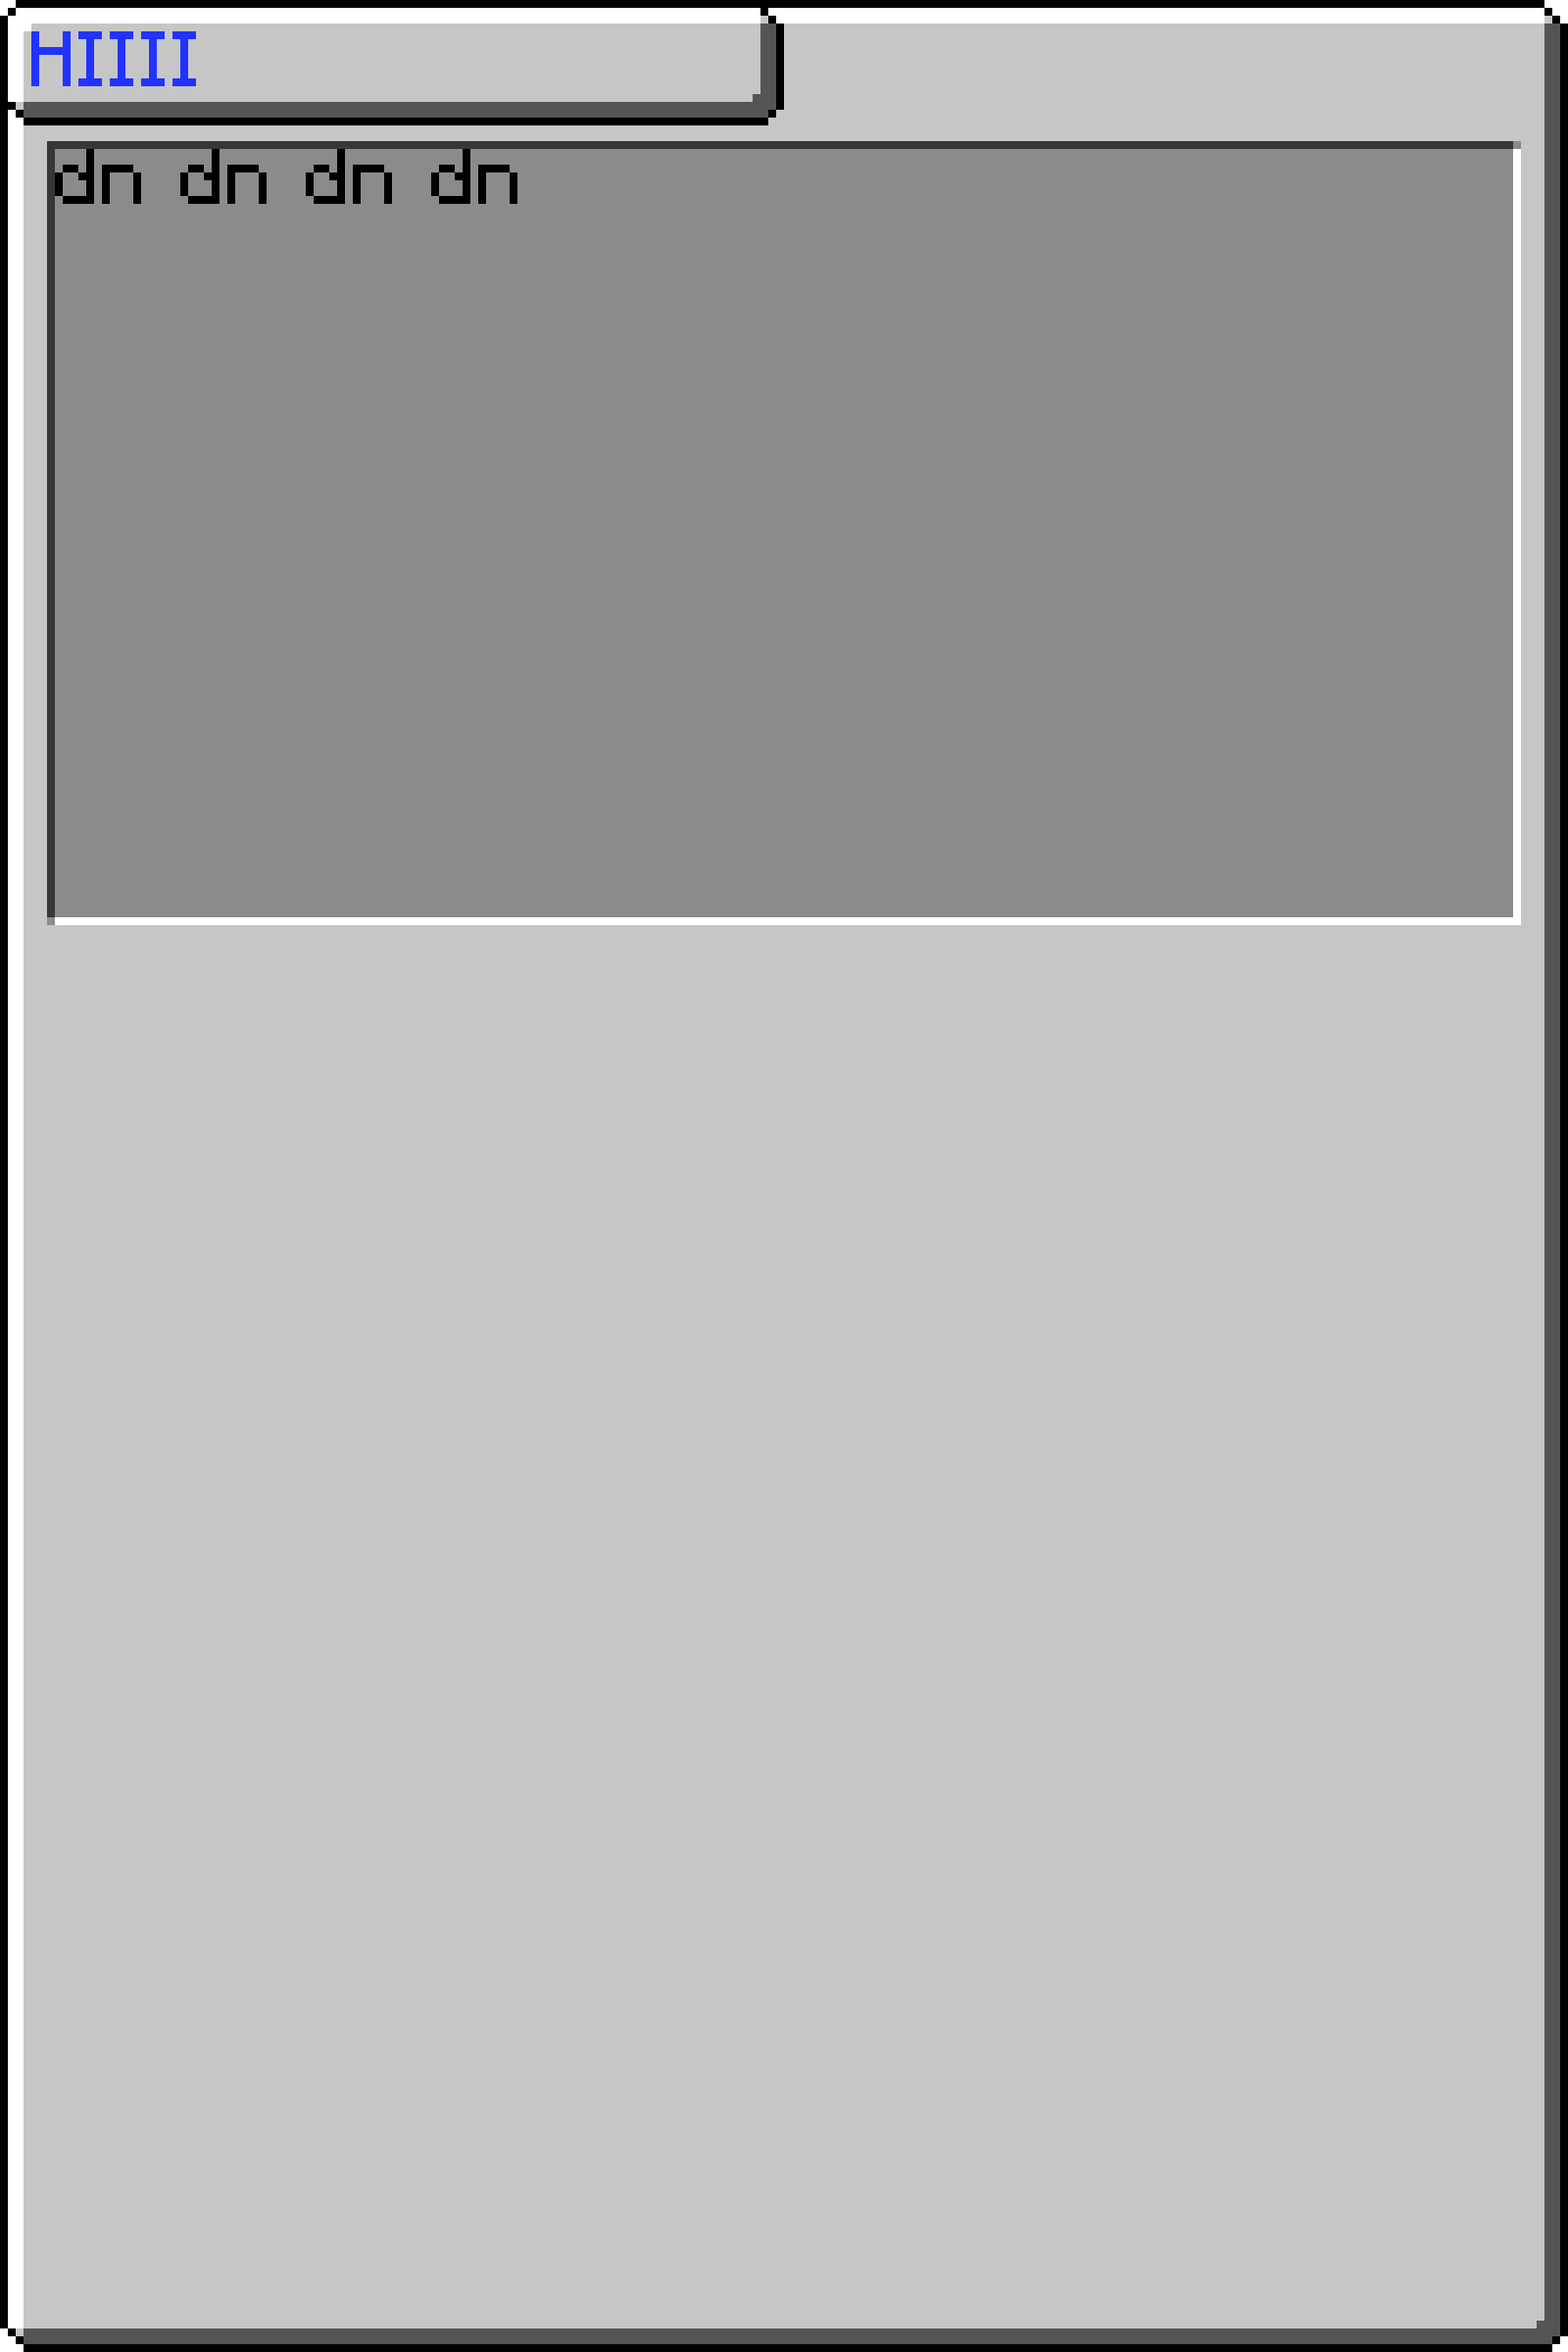
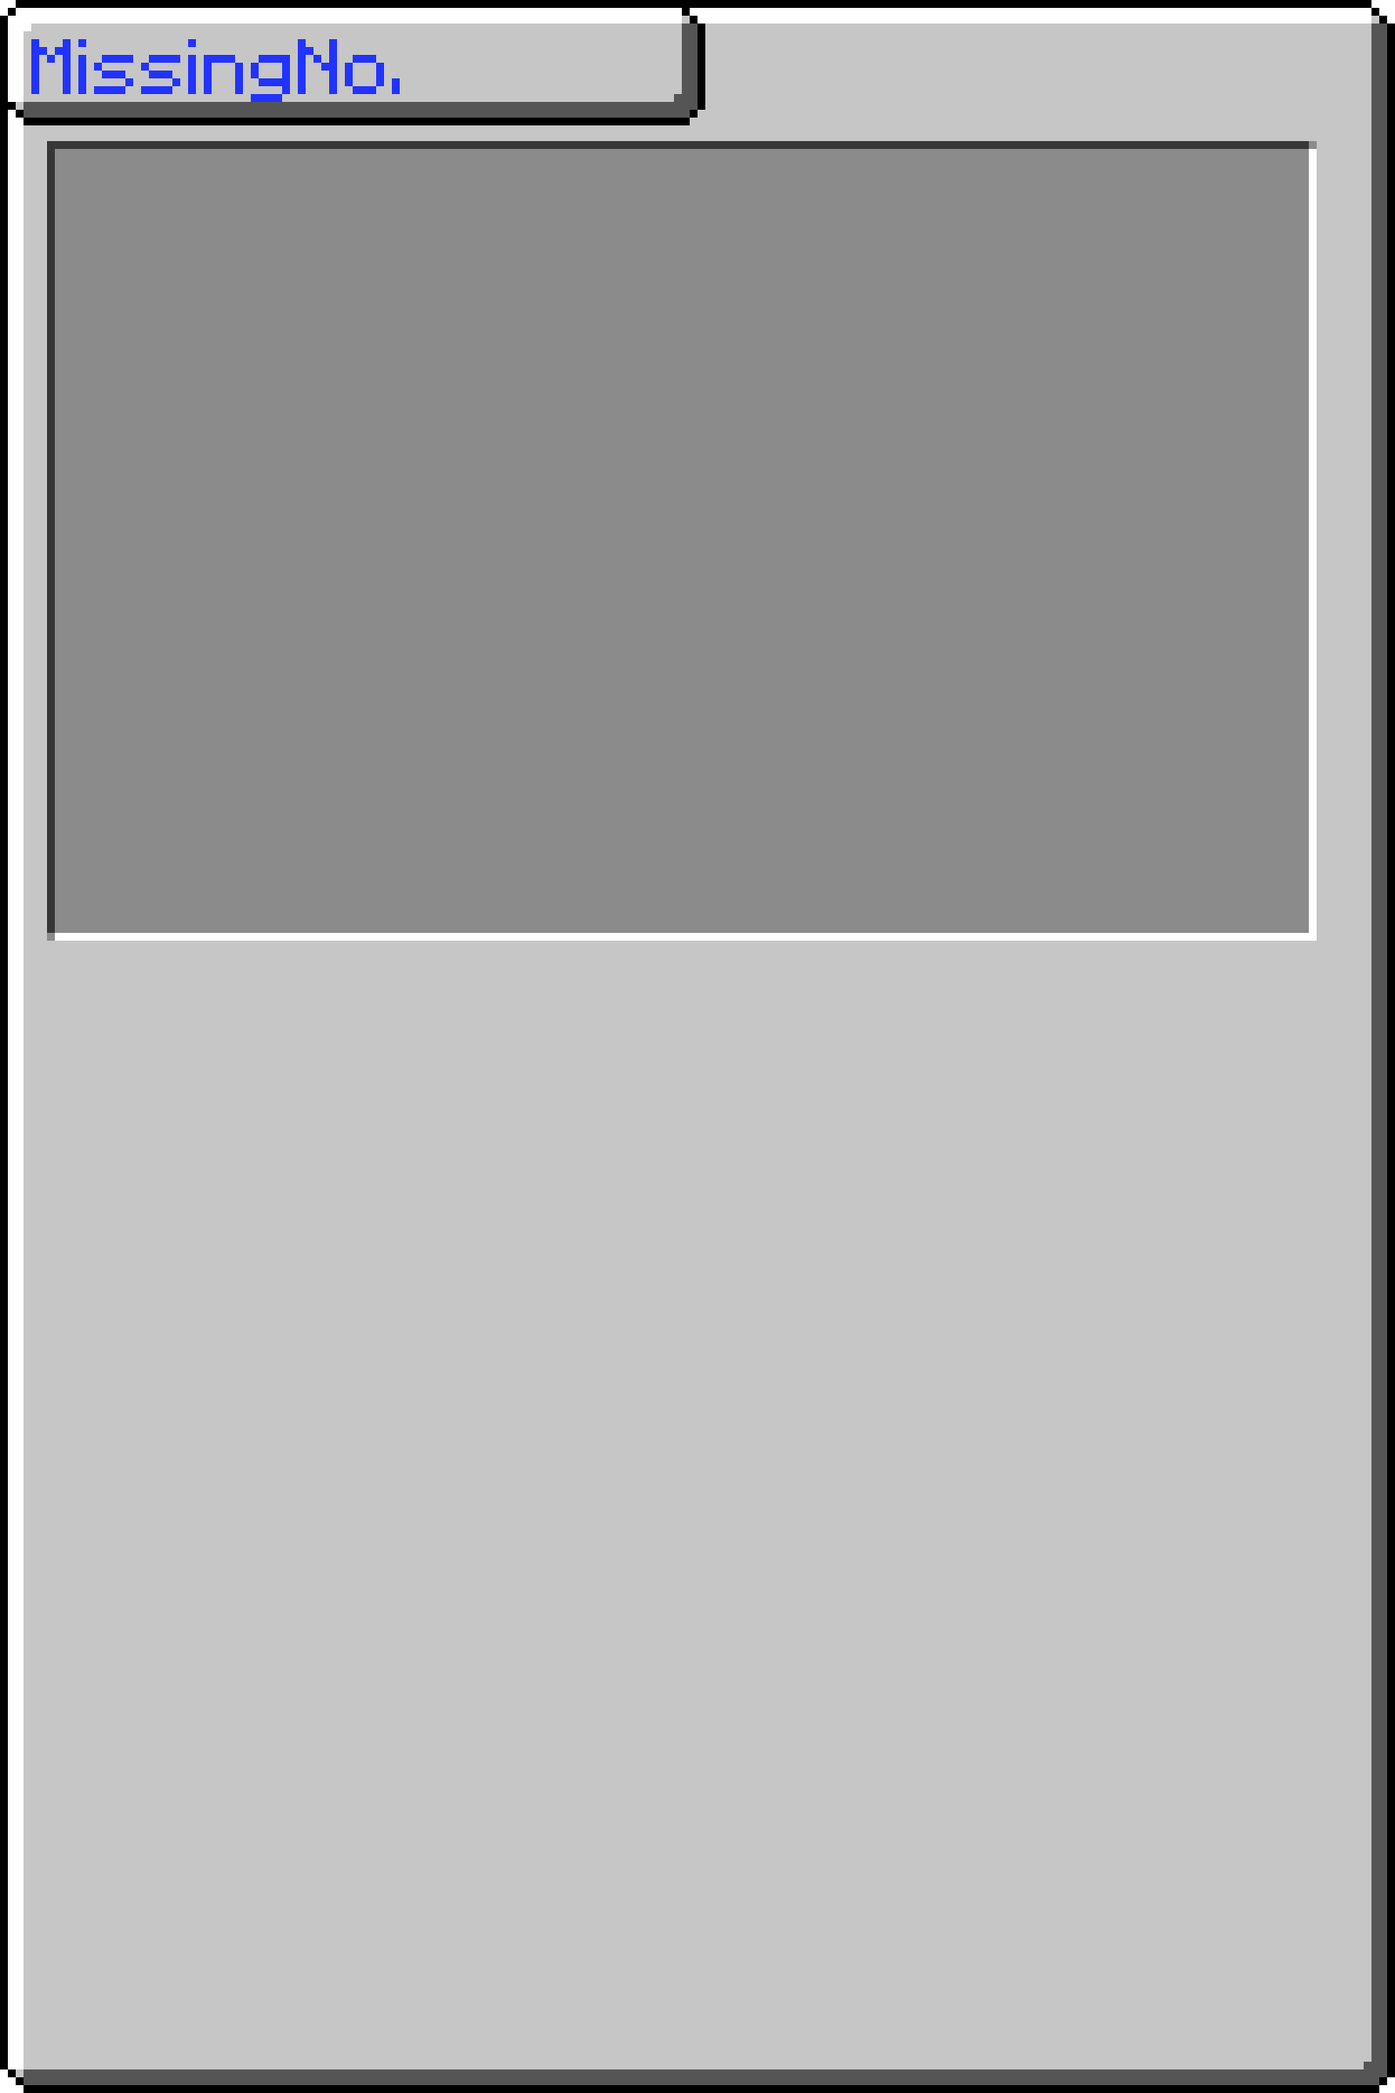
set_field madness

Changed region(s): [[0.0, 0.0, 0.9888, 0.4635], [0.0, 0.9888, 1.0, 1.0], [0.9579, 0.0, 1.0, 0.0309]]

diff --git a/card.py b/card.py
@@ -1,13 +1,12 @@
 import json
-from typing import NewType
 from PIL import Image
 import gui_builder, text
 from pathlib import Path
 DIR = Path(__file__).resolve().parent
 
-Text = NewType("Text", str)
+Text = str
 
-class Card():
+class BaseCard():
     def __init__(self, card_info: dict):
         self.name = card_info["name"]
         self.image = Image.new("RGBA", tuple(card_info["dimensions"]))
@@ -18,33 +17,44 @@ class Card():
         base, _ = gui_builder.create_base_gui(*card_info["dimensions"], card_info["base"])
         self.image.paste(im = base, box = base)
         self.fields = {}
+        self.field_sizes = {}
 
         for field in card_info["fields"]:
-            base, offset = gui_builder.create_base_gui(*field["dimensions"], field["frame"])
-            self.image.paste(base, tuple(field["position"]), base)
+            offset = (0, 0)
+            if "frame" in field:
+                base, offset = gui_builder.create_base_gui(*field["dimensions"], field["frame"])
+
+                self.image.paste(base, tuple(field["position"]), base)
             field["position"] = [x + y for x, y in zip(field["position"], offset)]
             self.fields[field["name"]] = field["position"]
+            self.field_sizes[field["name"]] = field["dimensions"]
 
-    def set_field(self, name: str, field: Image.Image | Text, color: tuple[int, int, int] = None) -> bool:
+    def set_field(self, name: str, field: Image.Image | Text, padding: tuple[int, int] = None, color: tuple[int, int, int] = None) -> bool:
         """
         Sets a card field to be an image or text.
-        The color field will only affect text color.
+        The color and padding fields will only affect text.
         Returns True on success, and False if the field is not found.
         """
-        
+
         if name not in self.fields: 
             return False
         if isinstance(field, str):
-            field = text.minecraft(field, color)
+            field = text.minecraft(field, padding, color)
         self.paste(field, tuple(self.fields[name]), field)
         return True
+    
+class Card(BaseCard):
+    def __init__(self, card_info):
+        super().__init__(card_info)
 
 with open(f"{DIR}/test_card.json", "r") as file:
     test_card_info = json.load(file)
 
-im = Card(test_card_info)
-im.set_field("title", "HIIII", (34, 51, 255))
-im.set_field("image", "dn dn dn dn")
-im.image = im.image.resize((8*im.image.width, 8*im.image.height), resample= Image.BOX)
+im = BaseCard(test_card_info)
+im.set_field("title", "MissingNo.", (0, 1), (34, 51, 255))
+# with Image.open(f"{DIR}/gui/missingno.png") as img:
+#     img = img.resize(tuple(im.field_sizes["image"]), resample = Image.BOX)
+#     im.set_field("image", img)
+im.image = im.image.resize((8*im.image.width, 8*im.image.height), resample = Image.BOX)
 im.image.save(f"{DIR}/gui.png")
 im.image.show()

diff --git a/text.py b/text.py
@@ -38,7 +38,7 @@ text_replace = {
     "|":"pipe"
 }
 
-def minecraft(text: str, rgb: tuple[int, int, int] = None) -> Image.Image:
+def minecraft(text: str, padding: tuple[int, int] = (0, 0), rgb: tuple[int, int, int] = None) -> Image.Image:
     text = list(text)
     text_array = []
     for i in text:
@@ -71,7 +71,12 @@ def minecraft(text: str, rgb: tuple[int, int, int] = None) -> Image.Image:
             horizontal += im.width + 1
     bbox = text_image.getbbox()
     text_image = text_image.crop((bbox[0], 0, bbox[2], text_image.height))
-    text_image = _tint_rgb(text_image, rgb)
+    padded_text_image = Image.new("RGBA",
+                                  (text_image.width + (padding[0] * 2),
+                                   text_image.height + (padding[1] * 2)),
+                                   (0, 0, 0, 0))
+    padded_text_image.paste(text_image, padding, text_image)
+    text_image = _tint_rgb(padded_text_image, rgb)
     return text_image
 
 def _tint_rgb(img: Image.Image, rgb: tuple[int, int, int]) -> Image.Image:
@@ -81,4 +86,6 @@ def _tint_rgb(img: Image.Image, rgb: tuple[int, int, int]) -> Image.Image:
     tint_layer = Image.new("RGB", rgb_img.size, rgb)
     tinted = ImageChops.multiply(rgb_img, tint_layer)
     return Image.merge("RGBA", (*tinted.split(), a))
+# im = minecraft("test", (1, 1), (0, 0, 0))
 # im = im.resize((8*im.width, 8*im.height), resample= Image.BOX)
+# im.show()
